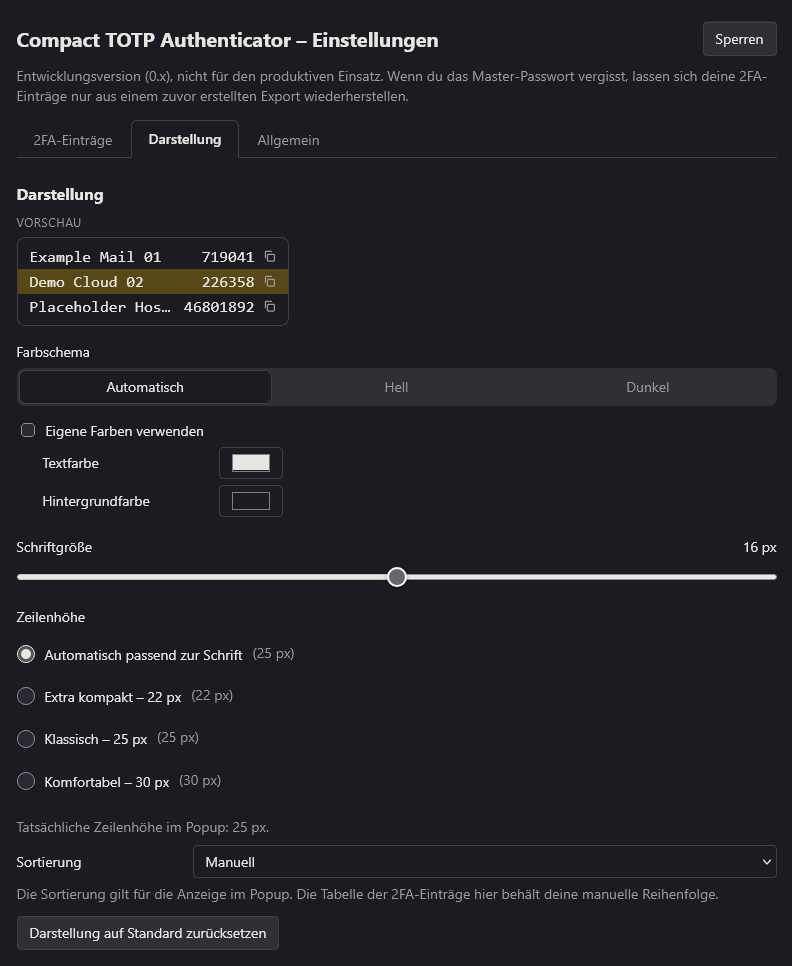
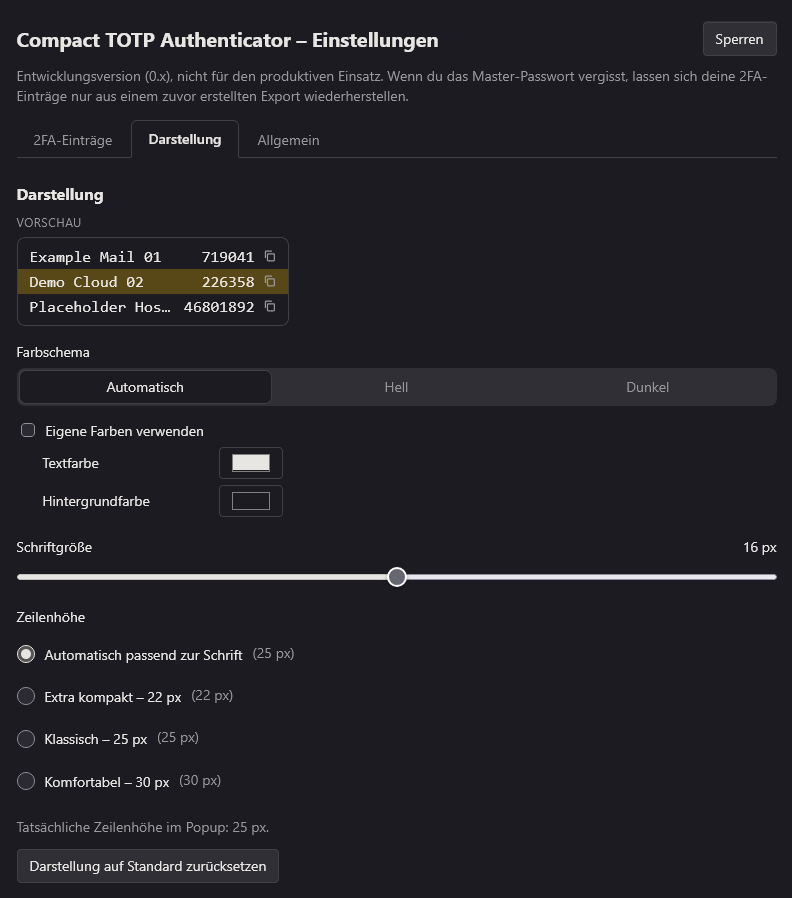
#21 review: popup sorting moves to General → Behaviour (implementation and storage unchanged)
Behaviour section at the top of General: sorting with its note, automatic
lock, idle lock. Browser check T-6 (placement, saved, confirmed in that
section, no tab switch). Docs and screenshots updated.

diff --git a/src/options/options.html b/src/options/options.html
@@ -144,14 +144,6 @@
           </fieldset>
           <p id="rowNote" class="note" hidden></p>
 
-          <label><span data-i18n="sortOrder"></span>
-            <select name="sort">
-              <option value="manual" data-i18n="sortManual"></option>
-              <option value="alpha" data-i18n="sortAlpha"></option>
-              <option value="revalpha" data-i18n="sortRevalpha"></option>
-            </select></label>
-          <p class="note" data-i18n="sortNote"></p>
-
           <button id="resetAppearance" type="button" data-i18n="resetAppearance"></button>
           <p id="appearanceStatus" class="status" role="status"></p>
         </section>
@@ -159,6 +151,22 @@
     </div>
 
     <div role="tabpanel" id="panel-general" aria-labelledby="tab-general" tabindex="0" hidden>
+      <section id="lockSettings">
+        <h2 data-i18n="behavior"></h2>
+        <label><span data-i18n="sortOrder"></span>
+          <select form="settingsForm" name="sort">
+            <option value="manual" data-i18n="sortManual"></option>
+            <option value="alpha" data-i18n="sortAlpha"></option>
+            <option value="revalpha" data-i18n="sortRevalpha"></option>
+          </select></label>
+        <p class="note" data-i18n="sortNote"></p>
+        <label><span data-i18n="autoLock"></span><input form="settingsForm" name="autoLockMinutes" type="number" min="1" max="240"></label>
+        <label class="check"><input form="settingsForm" name="idleLock" type="checkbox"><span data-i18n="idleLock"></span></label>
+        <label><span data-i18n="idleLockMinutes"></span><input form="settingsForm" name="idleLockMinutes" type="number" min="1" max="60"></label>
+        <p class="note" data-i18n="idleLockNote"></p>
+        <p id="behaviorStatus" class="status" role="status"></p>
+      </section>
+
       <p class="note locked-only" data-i18n="lockedHint" hidden></p>
       <div class="needs-vault" hidden>
         <section>
@@ -180,16 +188,6 @@
           <p id="passwordStatus" class="status" role="status"></p>
         </section>
       </div>
-
-      <section id="lockSettings">
-        <h2 data-i18n="lockSettingsTitle"></h2>
-        <label><span data-i18n="autoLock"></span><input form="settingsForm" name="autoLockMinutes" type="number" min="1" max="240"></label>
-        <label class="check"><input form="settingsForm" name="idleLock" type="checkbox"><span data-i18n="idleLock"></span></label>
-        <label><span data-i18n="idleLockMinutes"></span><input form="settingsForm" name="idleLockMinutes" type="number" min="1" max="60"></label>
-        <p class="note" data-i18n="idleLockNote"></p>
-        <p id="behaviorStatus" class="status" role="status"></p>
-        <p id="behaviorStatus" class="status" role="status"></p>
-      </section>
 
       <div class="needs-vault" hidden>
         <section>

diff --git a/docs/evidence/tabs-21/README.md b/docs/evidence/tabs-21/README.md
@@ -10,8 +10,10 @@ code was touched.
 | Tab | Content |
 |---|---|
 | **2FA-Einträge / 2FA entries** (default) | entries table (reorder, edit, delete), add/edit form |
-| **Darstellung / Appearance** | live preview, theme, custom colors with the contrast warning, font size, row height with effective heights, popup sorting with its note, reset to defaults |
-| **Allgemein / General** | sections "Master-Passwort ändern", "Automatische Sperre", "Import", "Export und Sicherung", "Aus verschlüsselter Sicherung wiederherstellen" (with the previous vault state) |
+| **Darstellung / Appearance** | live preview, theme, custom colors with the contrast warning, font size, row height with effective heights, reset to defaults |
+| **Allgemein / General** | sections "Verhalten" (popup sorting with its note, automatic lock, idle lock), "Master-Passwort ändern", "Import", "Export und Sicherung", "Aus verschlüsselter Sicherung wiederherstellen" (with the previous vault state) |
+
+The popup sorting was moved from Appearance to General → Verhalten after the review (CTA-UI-TABS-100). Its implementation and storage are unchanged.
 
 **Design decision for the review.** The setup, unlock and damaged-vault recovery forms stay
 **above the tabs** while the vault is locked, instead of inside "General". Unlocking is the
@@ -36,7 +38,7 @@ work while locked.
   a region in a hidden part falls back to the top.
 - Leaving a tab clears its password fields. Unsaved non-secret input (for example a half-typed
   entry) is kept. No sensitive field is duplicated.
-- The lock settings live in General but belong to the settings form (`form="settingsForm"`).
+- The behaviour settings (sorting, automatic lock, idle lock) live in General but belong to the settings form (`form="settingsForm"`).
   Their events are handled on the document.
 - The tabs use the theme tokens and follow automatic, light and dark.
 
@@ -57,6 +59,7 @@ work while locked.
 | T-2 keyboard: arrows, Home, End, wrapping, Tab into the panel, visible focus | Locally: selection and focus movement PASS. The focus ring is NOT_TESTED locally because the operator worked in another window, so the test window was not active; the test reports that honestly. CI (headless): see the PR checks |
 | T-3 tab kept after reload, saved setting and error; messages in the originating section | PASS (local) |
 | T-4 unsaved input kept, passwords cleared on leaving a tab | PASS (local) |
+| T-6 popup sorting in General → Verhalten, saved and confirmed there, no tab switch | PASS (local) |
 | T-5 1024, 1280 and 1920 px × 100/150/200 % zoom, all tabs: no horizontal overflow | PASS (local, 27 combinations) |
 | Screenshots (de, synthetic entries) | [`tabs-entries-de.png`](tabs-entries-de.png), [`tabs-appearance-de.png`](tabs-appearance-de.png), [`tabs-general-de.png`](tabs-general-de.png) |
-| Local browser run, Firefox 160.0.1, Windows ([`browser-results-local.json`](browser-results-local.json)) | 104/108 PASS, 2 MANUAL, 2 NOT_TESTED (T-2 focus ring, C3-4 system idle: both because the operator was working at the computer), 0 FAIL |
+| Local browser run, Firefox 160.0.1, Windows ([`browser-results-local.json`](browser-results-local.json)) | 105/109 PASS, 2 MANUAL, 2 NOT_TESTED (T-2 focus ring, C3-4 system idle: both because the operator was working at the computer), 0 FAIL |

diff --git a/docs/USER-GUIDE.md b/docs/USER-GUIDE.md
@@ -24,9 +24,9 @@ Requirements: Firefox 140 or newer (desktop; current release or ESR).
    be recovered (see §5).
 
 The settings page has three tabs: **2FA entries** (the list, add, edit, delete, reorder),
-**Appearance** (preview, theme, colors, font size, row height, popup sorting) and
-**General** (master password, automatic lock, import, export, restore, previous vault
-state). While the vault is locked, the setup or unlock form appears above the tabs.
+**Appearance** (preview, theme, colors, font size, row height) and **General** (behaviour:
+popup sorting, automatic lock and idle lock; master password; import, export, restore and
+previous vault state). While the vault is locked, the setup or unlock form appears above the tabs.
 
 ## 2. Daily use
 
